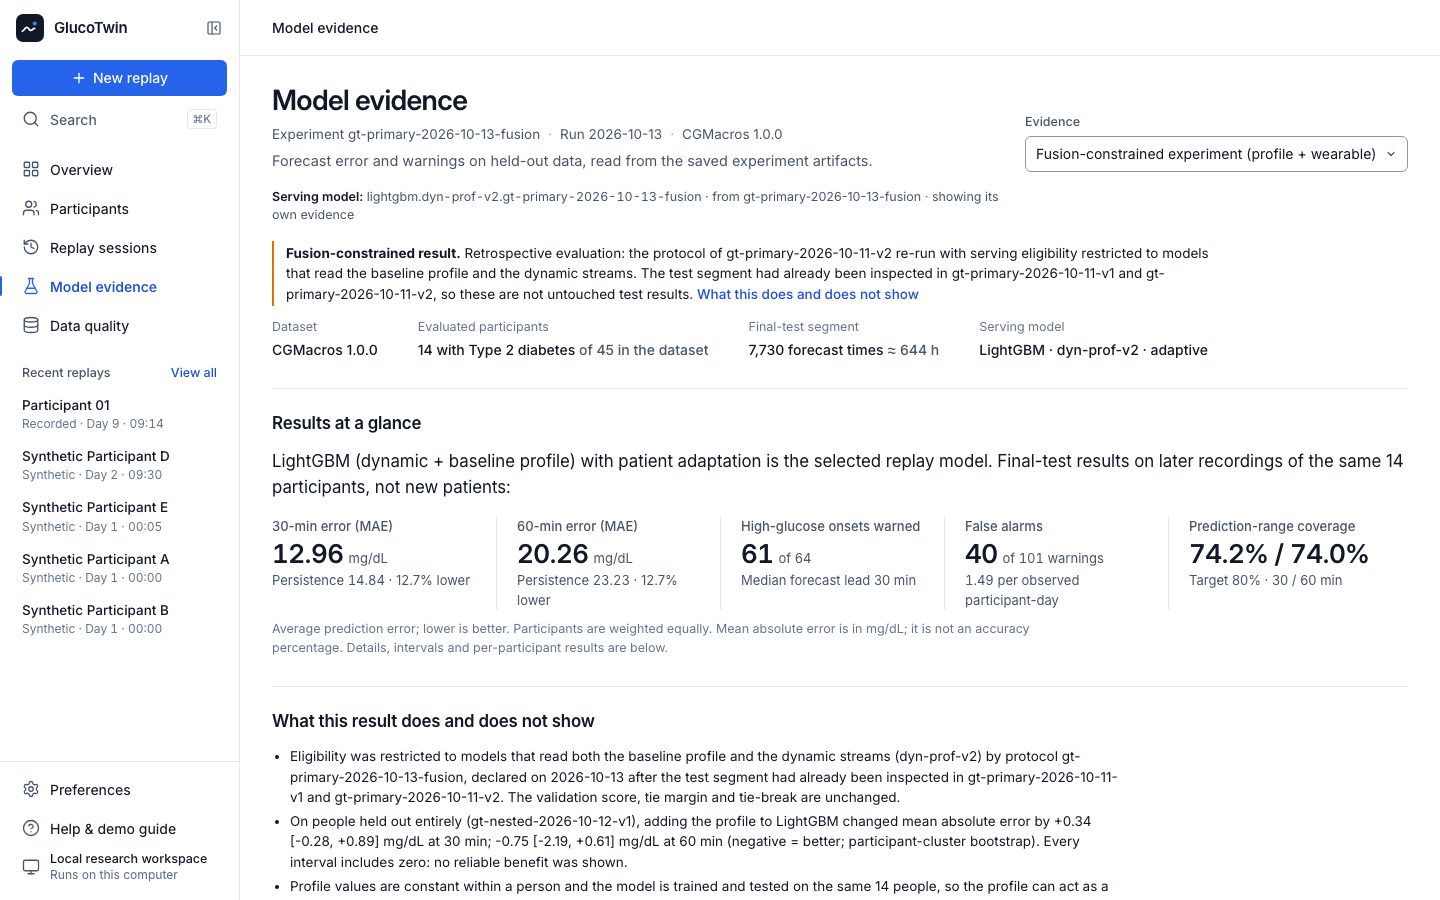
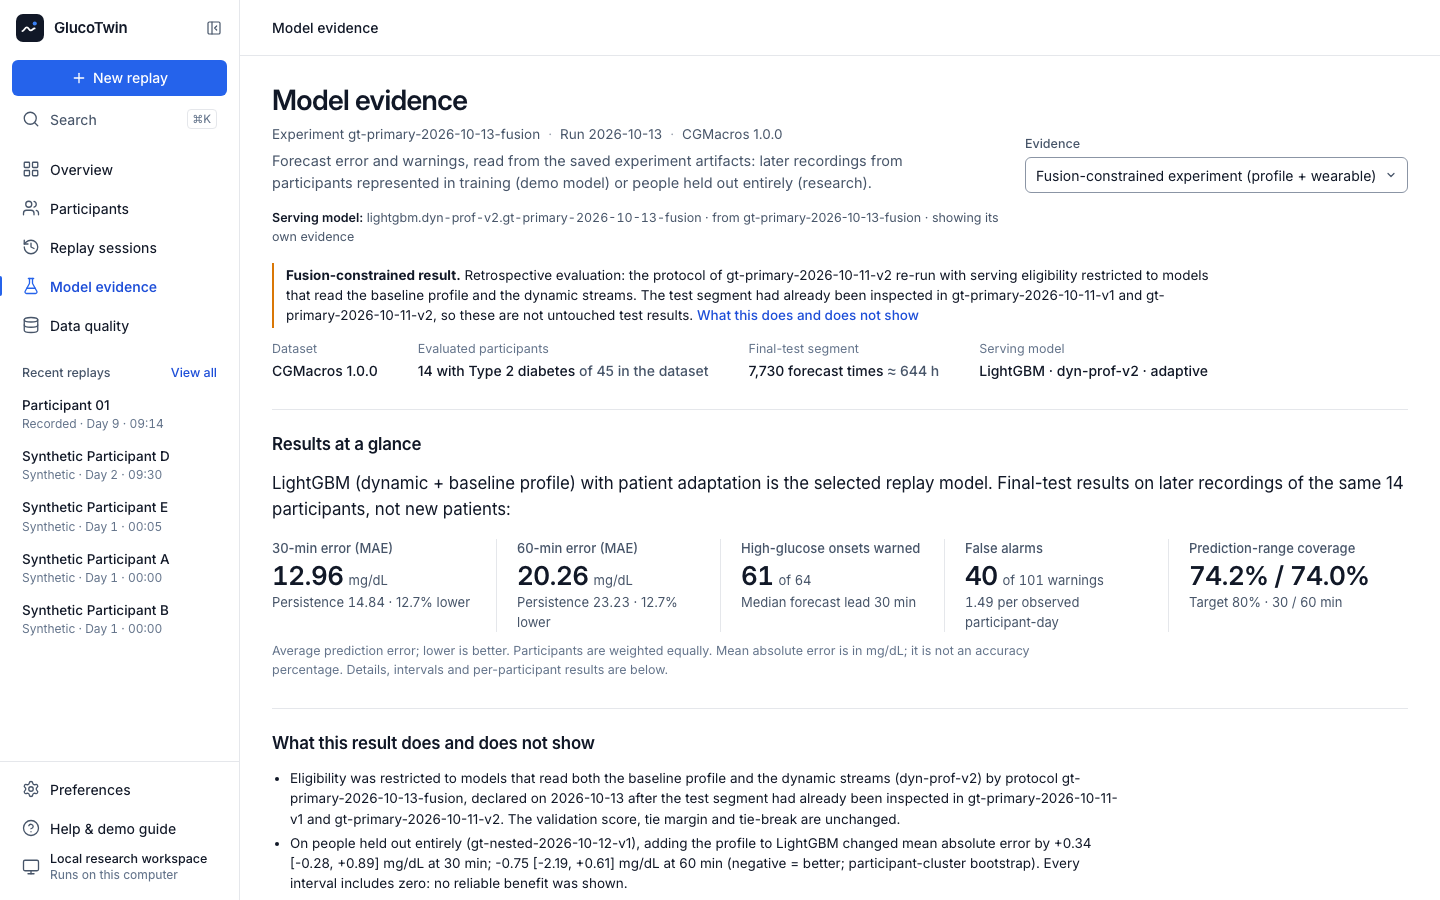
fix(ui): call the serving test segment the final test period of participants represented in training
"Held-out test period" and "data the model never trained on" could be read as new-patient results; the segment holds
later recordings of the same 14 people. Labels, tooltips, notices and the help dialog now say "final test period" and
"later recordings from a participant represented in training". Research-evidence wording about people held out
entirely is unchanged. Playwright journeys updated (18/18) and screenshots retaken.

diff --git a/apps/web/e2e/journey.spec.ts b/apps/web/e2e/journey.spec.ts
@@ -9,7 +9,7 @@ async function startReplay(page: Page, mode: "synthetic_demo" | "dataset_replay"
   const dialog = page.getByRole("dialog", { name: "New replay" });
   await dialog.getByRole("radio", { name: mode === "synthetic_demo" ? /Synthetic demonstration/ : /Recorded-data replay/ }).check();
   await dialog.getByLabel("Participant", { exact: true }).selectOption(patient);
-  if (testPeriod) await dialog.getByRole("radio", { name: /Held-out test period/ }).check();
+  if (testPeriod) await dialog.getByRole("radio", { name: /Final test period/ }).check();
   await dialog.getByRole("button", { name: "Start replay" }).click();
   await expect.poll(() => new URL(page.url()).searchParams.get("session")).not.toBe(previous);
   await expect(page).toHaveURL(/session=/);
@@ -127,7 +127,7 @@ test("missing-data, stale and abstention states are explicit", async ({ page }) 
   await page.screenshot({ path: `${SHOTS}/02-missing-and-stale-data.png` });
 });
 
-test("recorded-data replay in the held-out test period shows prediction ranges with their target coverage", async ({ page, request }) => {
+test("recorded-data replay in the final test period shows prediction ranges with their target coverage", async ({ page, request }) => {
   const pts = await (await request.get(`${API}/patients?mode=dataset_replay`)).json();
   test.skip(!pts.items?.length, "CGMacros not imported on this machine");
   const p = pts.items.find((x: { eligible_for_primary_analysis: boolean }) => x.eligible_for_primary_analysis);
@@ -136,11 +136,11 @@ test("recorded-data replay in the held-out test period shows prediction ranges w
   await page.getByRole("button", { name: "Step 1 h forward" }).click();
   await expect(page.getByText("Prediction range · target coverage 80%")).toBeVisible();
   await page.getByRole("button", { name: "Details", exact: true }).click();
-  await expect(page.getByText(/Measured coverage on the held-out test period/)).toBeVisible();
+  await expect(page.getByText(/Measured coverage on the final test period/)).toBeVisible();
   await expect(page.getByText("Recorded-data replay").first()).toBeVisible();
   await page.screenshot({ path: `${SHOTS}/03-forecast-with-interval-recorded.png` });
   await page.getByRole("button", { name: "View forecast details" }).click();
-  await expect(page.getByRole("dialog", { name: "Forecast details" })).toContainText("Held-out test period");
+  await expect(page.getByRole("dialog", { name: "Forecast details" })).toContainText("Final test period (later recordings from a participant represented in training)");
   await page.waitForTimeout(400); // let the drawer finish its short slide-in
   await page.screenshot({ path: `${SHOTS}/04-forecast-evidence-dialog.png` });
   await page.keyboard.press("Escape");
@@ -401,7 +401,7 @@ test.describe("landing page and route compatibility", () => {
 
 // Last, so the sessions they create do not appear in the overview screenshot above.
 test.describe("first replay experience on recorded data", () => {
-  test("Open recorded demo starts Participant 01 at the held-out test period", async ({ page }) => {
+  test("Open recorded demo starts Participant 01 at the final test period", async ({ page }) => {
     const p = await byAlias(page, "Participant 01");
     test.skip(!p, "CGMacros not imported on this machine");
     const detail = await (await page.request.get(`${API}/patients/${p.patient_id}`)).json();
@@ -417,7 +417,7 @@ test.describe("first replay experience on recorded data", () => {
     await expect(page.getByRole("region", { name: "Current glucose" })).not.toContainText("No reading yet");
   });
 
-  test("a replay from the start of a recording offers the held-out test period", async ({ page }) => {
+  test("a replay from the start of a recording offers the final test period", async ({ page }) => {
     const p = await byAlias(page, "Participant 01");
     test.skip(!p, "CGMacros not imported on this machine");
     const detail = await (await page.request.get(`${API}/patients/${p.patient_id}`)).json();
@@ -425,7 +425,7 @@ test.describe("first replay experience on recorded data", () => {
     await page.goto("/app");
     const sid = await startReplay(page, "dataset_replay", p.patient_id);
     await expect(page.getByText("No readings released yet.")).toBeVisible();
-    await page.getByRole("button", { name: "Go to held-out test period" }).click();
+    await page.getByRole("button", { name: "Go to final test period" }).click();
     await expect.poll(async () => Date.parse((await session(page, sid)).clock_at)).toBe(Date.parse(testStart));
     await expect(page.getByText("No readings released yet.")).toBeHidden();
   });

diff --git a/apps/web/src/pages/ReplayPage.tsx b/apps/web/src/pages/ReplayPage.tsx
@@ -143,7 +143,7 @@ export function ReplayPage({ sid }: { sid: string }) {
       {latestF?.split_segment === "training" && (
         <InlineNotice tone="neutral" icon={Info} role="note">
           This replay time lies in the model’s training period, so these forecasts are in-sample. Use <strong>Test period</strong> below
-          the chart to review held-out forecasts.
+          the chart to review forecasts from the final test period.
         </InlineNotice>
       )}
 
@@ -177,8 +177,8 @@ export function ReplayPage({ sid }: { sid: string }) {
   );
 }
 
-/** At the start of a recording nothing has been released yet, so the chart is empty: say so, and offer the held-out test
- *  period — where the twin is shown on data it never trained on — as the first stop. */
+/** At the start of a recording nothing has been released yet, so the chart is empty: say so, and offer the final test
+ *  period (later recordings from a participant represented in training) as the first stop. */
 function StartNotice({ session, events, eventsLoaded, segments, onAnnounce }: {
   session: ReplaySession; events: ObservationEvent[]; eventsLoaded: boolean; segments?: EvaluationSegment[] | null;
   onAnnounce: (msg: string) => void;
@@ -189,14 +189,14 @@ function StartNotice({ session, events, eventsLoaded, segments, onAnnounce }: {
   if (!eventsLoaded || latestGlucose(events, clock) || session.status === "playing") return null;
   const test = segments?.find((s) => s.name === "test");
   const go = () => test && control.mutate({ action: "seek", seek_to: test.start_at }, {
-    onSuccess: (s) => onAnnounce(`Moved to the held-out test period. Replay time ${replayTime(s.clock_at)}.`),
+    onSuccess: (s) => onAnnounce(`Moved to the final test period. Replay time ${replayTime(s.clock_at)}.`),
     onError: (e) => toast(`Replay control failed: ${(e as Error).message}`, "error"),
   });
   return (
     <InlineNotice tone="neutral" icon={Info} role="note"
-      action={test ? <Button variant="primary" size="sm" icon={Target} busy={control.isPending} onClick={go}>Go to held-out test period</Button> : undefined}>
+      action={test ? <Button variant="primary" size="sm" icon={Target} busy={control.isPending} onClick={go}>Go to final test period</Button> : undefined}>
       <strong>No readings released yet.</strong> The replay clock is at the start of the recording.{" "}
-      {test ? <>Jump to the held-out test period (from {replayTime(test.start_at)}) to see forecasts on data the model never trained on, or press Play.</>
+      {test ? <>Jump to the final test period (from {replayTime(test.start_at)}) to see forecasts on later recordings from a participant represented in training, or press Play.</>
         : <>Press Play to release readings as they would have arrived.</>}
     </InlineNotice>
   );

diff --git a/apps/web/src/components/shell/Dialogs.tsx b/apps/web/src/components/shell/Dialogs.tsx
@@ -237,8 +237,8 @@ export function NewReplayDialog({ open, onClose, initialPatient }: { open: boole
             <label className="radio-card">
               <input type="radio" name="start" checked={start === "test"} onChange={() => setStart("test")} />
               <span>
-                <strong className="radio-card__title">Held-out test period</strong>
-                <span className="radio-card__desc">Begins at {replayTime(testSeg.start_at)}; the twin rebuilds its state from earlier data.</span>
+                <strong className="radio-card__title">Final test period</strong>
+                <span className="radio-card__desc">Later recordings from a participant represented in training. Begins at {replayTime(testSeg.start_at)}; the twin rebuilds its state from earlier data.</span>
               </span>
             </label>
           </div>
@@ -331,7 +331,7 @@ export function HelpDialog({ open, onClose }: { open: boolean; onClose: () => vo
           glucose is not already high. The panel names the forecast that fired it. It is a forecast level in mg/dL, not a probability. “Mark as reviewed” only records a local acknowledgement — no
           message is sent to anyone.</p>
         <p><strong>Evidence.</strong> Model evidence shows the measured comparison (persistence, linear trend, ridge,
-          LightGBM, CatBoost) on a held-out test period. Mean absolute error is an average error in mg/dL, not an accuracy
+          LightGBM, CatBoost) on the final test period: later recordings from participants represented in training. Mean absolute error is an average error in mg/dL, not an accuracy
           percentage.</p>
         <p className="muted">Shortcut: ⌘K / Ctrl K opens search (not while typing in a field).</p>
       </div>

diff --git a/apps/web/src/pages/OverviewPage.tsx b/apps/web/src/pages/OverviewPage.tsx
@@ -62,8 +62,8 @@ export function OverviewPage() {
   );
 }
 
-/** One click to the walkthrough: the first primary-analysis participant, starting at the held-out test period, so the
- *  first screen shows forecasts on data the model never trained on instead of an empty chart. */
+/** One click to the walkthrough: the first primary-analysis participant, starting at the final test period, so the
+ *  first screen shows forecasts instead of an empty chart. */
 function RecordedDemo({ demo }: { demo: PatientSummary }) {
   const detail = usePatient(demo.patient_id);
   const test = detail.data?.evaluation_segments?.find((s) => s.name === "test");
@@ -72,9 +72,9 @@ function RecordedDemo({ demo }: { demo: PatientSummary }) {
     <Section title="Recorded demo" divider={false}>
       <div className="start-row">
         <p className="start-row__text">
-          {demo.display_alias}, starting at the held-out test period
+          {demo.display_alias}, starting at the final test period
           {test ? <> (<span className="num">{replayTime(test.start_at)}</span>)</> : null}: forecasts, warnings and their outcomes
-          on data the model never trained on. Each click starts a new replay session.
+          on later recordings from a participant represented in training. Each click starts a new replay session.
         </p>
         <div className="start-row__actions">
           <Button variant="primary" icon={Play} disabled={!test} busy={create.isPending}

diff --git a/apps/web/src/components/twin/ForecastDetail.tsx b/apps/web/src/components/twin/ForecastDetail.tsx
@@ -8,7 +8,7 @@ const SEG: Record<string, string> = {
   training: "Training period — this origin is in-sample for the population model",
   validation: "Validation-selection period",
   calibration: "Calibration period",
-  test: "Held-out test period",
+  test: "Final test period (later recordings from a participant represented in training)",
   unassigned: "Outside the evaluation segments",
 };
 const KIND: Record<string, string> = {
@@ -67,7 +67,7 @@ export function ForecastDetail({ f, patient, report, open, onClose }: {
             </div>
             <p className="drawer-body__note">
               Prediction range: target coverage {Math.round((f.estimates.find((e) => e.interval_level)?.interval_level ?? 0.8) * 100)}%.{" "}
-              {cov ? <>Measured on the held-out test period: {cov.byHorizon.map((b) => `${fmtPct(b.coverage, 1)} at ${b.horizon} min`).join(", ")} ({cov.experiment}). Coverage varies by participant; no guarantee.</>
+              {cov ? <>Measured on the final test period: {cov.byHorizon.map((b) => `${fmtPct(b.coverage, 1)} at ${b.horizon} min`).join(", ")} ({cov.experiment}). Coverage varies by participant; no guarantee.</>
                 : <>No measured coverage for this model version on recorded data; no guarantee.</>}
             </p>
           </section>

diff --git a/apps/web/src/components/replay/ReplayToolbar.tsx b/apps/web/src/components/replay/ReplayToolbar.tsx
@@ -13,7 +13,7 @@ const SEG_LABEL: Record<string, string> = {
   training: "Training (in-sample)",
   validation: "Validation",
   calibration: "Calibration",
-  test: "Held-out test",
+  test: "Final test",
 };
 
 /** Compact replay controls under the chart. The backend owns the clock; a seek creates a new revision. */
@@ -79,7 +79,7 @@ export function ReplayToolbar({ session, segments, onAnnounce }: {
       <div className="replay-bar__end">
         {test && (
           <Button size="sm" variant={clock < ms(test.start_at) ? "secondary" : "ghost"} icon={Target} disabled={busy} onClick={() => commitSeek(ms(test.start_at))}
-            title={`Jump to the start of the held-out test period (${replayTime(test.start_at)})`}>Test period</Button>
+            title={`Jump to the start of the final test period, later recordings from a participant represented in training (${replayTime(test.start_at)})`}>Test period</Button>
         )}
         <label className="visually-hidden" htmlFor={`${sliderId}-speed`}>Replay speed</label>
         <select id={`${sliderId}-speed`} className="select select--sm" value={session.speed} disabled={busy}

diff --git a/apps/web/src/components/twin/Panels.tsx b/apps/web/src/components/twin/Panels.tsx
@@ -206,7 +206,7 @@ function RangeNote({ f, report }: { f: Forecast; report?: EvaluationReport }) {
       {open && (
         <p id={id} className="range-note__detail">
           {cov ? (
-            <>Measured coverage on the held-out test period: {cov.byHorizon.map((b) => `${fmtPct(b.coverage, 1)} at ${b.horizon} min (participants ${fmtPct(b.min, 0)}–${fmtPct(b.max, 0)})`).join("; ")} — experiment {cov.experiment}. Coverage varies by participant; no guarantee.</>
+            <>Measured coverage on the final test period: {cov.byHorizon.map((b) => `${fmtPct(b.coverage, 1)} at ${b.horizon} min (participants ${fmtPct(b.min, 0)}–${fmtPct(b.max, 0)})`).join("; ")} — experiment {cov.experiment}. Coverage varies by participant; no guarantee.</>
           ) : f.mode === "synthetic_demo" ? (
             <>The synthetic demonstration model has no measured coverage on recorded data. Coverage varies; no guarantee.</>
           ) : (

diff --git a/apps/web/src/pages/EvidencePage.tsx b/apps/web/src/pages/EvidencePage.tsx
@@ -58,7 +58,7 @@ export function EvidencePage() {
             </select>
           </div>
         ) : undefined}>
-        Forecast error and warnings on held-out data, read from the saved experiment artifacts.
+        Forecast error and warnings, read from the saved experiment artifacts: later recordings from participants represented in training (demo model) or people held out entirely (research).
       </PageHeader>
       <ServingLine selected={chosen} regime={meta ? REGIME[meta.regime] : undefined} />
       {list.isLoading || (!research && ev.isLoading) || (research && rs.isLoading) ? <Skeleton h={300} /> : research ? (

diff --git a/scripts/demo_sequence.py b/scripts/demo_sequence.py
@@ -179,15 +179,16 @@ def main() -> int:
     if ready["dataset"]["ready"] and p01 and p12:
         seg = {s["name"]: s for s in run.get(f"/patients/{p01['patient_id']}")["evaluation_segments"]}
         run.scene("Scene A — recorded data: a false alarm, then a true warning",
-                  "Held-out test period of the serving model. Shows saved forecasts, a research warning whose outcome "
-                  "is unknown until later, a false alarm, a rewind (new revision) and a true warning.",
+                  "Final test period of the serving model (later recordings from a participant represented in training). "
+                  "Shows saved forecasts, a research warning whose outcome is unknown until later, a false alarm, a rewind "
+                  "(new revision) and a true warning.",
                   p01, "dataset_replay", seg["test"]["start_at"],
                   [("step", 12, "orientation"), ("step", 2, "warning issued?"), ("step", 24, "outcome now known"),
                    ("seek", at(9, "20:00"), "rewind/seek creates a new revision"), ("step", 7, ""), ("step", 1, ""),
                    ("step", 6, "outcome of the second warning")])
         seg12 = {s["name"]: s for s in run.get(f"/patients/{p12['patient_id']}")["evaluation_segments"]}
         run.scene("Scene B — recorded data: a real 70-minute sensor gap",
-                  "A genuine gap in the native Dexcom readings during this participant's held-out test period.",
+                  "A genuine gap in the native Dexcom readings during this participant's final test period.",
                   p12, "dataset_replay", seg12["test"]["start_at"],
                   [("seek", at(9, "10:25"), "before the gap"), ("seek", at(9, "10:50"), "21 min without a reading"),
                    ("seek", at(9, "11:30"), "61 min without a reading"), ("seek", at(9, "11:45"), "readings resume")])

diff --git a/reports/ui/README.md b/reports/ui/README.md
@@ -8,7 +8,7 @@ noted). All recorded-data screenshots were recaptured on 13 Oct 2026 after the s
 |---|---|
 | `01-twin-workspace-synthetic.png` | Synthetic demonstration (SYN-B) after stepping and acknowledging a warning |
 | `02-missing-and-stale-data.png` | Synthetic SYN-D inside a 150-minute sensor gap: stale reading and stale forecast |
-| `03-forecast-with-interval-recorded.png` | Recorded-data replay (CGMacros participant, held-out test period): forecasts with prediction ranges (target coverage 80 %) and the measured-coverage details |
+| `03-forecast-with-interval-recorded.png` | Recorded-data replay (CGMacros participant, final test period: later recordings of a participant represented in training): forecasts with prediction ranges (target coverage 80 %) and the measured-coverage details |
 | `04-forecast-evidence-dialog.png` | Forecast details drawer (information cutoff, model version, evaluation period, population vs correction, explanations) |
 | `05-model-evidence.png` | Model evidence page: the short fusion-constraint notice, results at a glance, the disclosures and all configurations |
 | `06-data-quality.png` | Data quality page (current replay, sources, model-input limits, coverage) |
@@ -17,7 +17,7 @@ noted). All recorded-data screenshots were recaptured on 13 Oct 2026 after the s
 | `09-recording-1920-recorded-gap-stale.png` | 1920×1080: Participant 12, Day 9 · 10:50 — genuine 70-minute Dexcom gap; reading and forecasts out of date |
 | `10-landing-desktop.png` | Landing page (desktop) with the synthetic-demonstration preview |
 | `11-landing-phone.png` | Landing page on a 390 px phone (full page) |
-| `12-overview.png` | Workspace overview: *Open recorded demo* (Participant 01 from the held-out test period), then recent replays as divided rows |
+| `12-overview.png` | Workspace overview: *Open recorded demo* (Participant 01 from the final test period), then recent replays as divided rows |
 | `13-insufficient-history-recorded.png` | 1920×1080: Participant 12, Day 9 · 11:45 — readings resumed but the twin abstains (2 readings in the last hour) |
 | `14-research-evidence.png` | Model evidence switched to the nested research experiment `gt-nested-2026-10-12-v1`: results on held-out people, kept separate from the serving model |
 | `15-research-portable-external.png` | Same page, 15-minute portable track: external ShanghaiT2DM cohort results |

diff --git a/reports/demo_sequence.md b/reports/demo_sequence.md
@@ -8,7 +8,7 @@ Generated from live API responses on this installation; regenerate with `uv run 
 
 ## Scene A — recorded data: a false alarm, then a true warning
 
-Held-out test period of the serving model. Shows saved forecasts, a research warning whose outcome is unknown until later, a false alarm, a rewind (new revision) and a true warning.
+Final test period of the serving model (later recordings from a participant represented in training). Shows saved forecasts, a research warning whose outcome is unknown until later, a false alarm, a rewind (new revision) and a true warning.
 
 Participant **Participant 01** (`pt-1eef47`) · mode `dataset_replay` · clock range Day 9 · 08:14 → Day 9 · 21:10
 
@@ -25,7 +25,7 @@ Participant **Participant 01** (`pt-1eef47`) · mode `dataset_replay` · clock r
 
 ## Scene B — recorded data: a real 70-minute sensor gap
 
-A genuine gap in the native Dexcom readings during this participant's held-out test period.
+A genuine gap in the native Dexcom readings during this participant's final test period.
 
 Participant **Participant 12** (`pt-d260d8`) · mode `dataset_replay` · clock range Day 9 · 07:58 → Day 9 · 11:45
 
